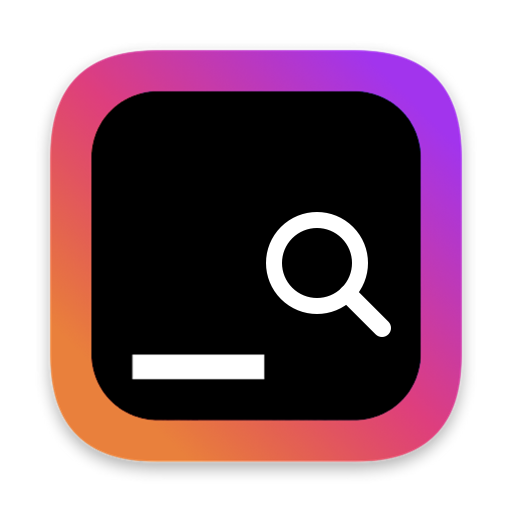
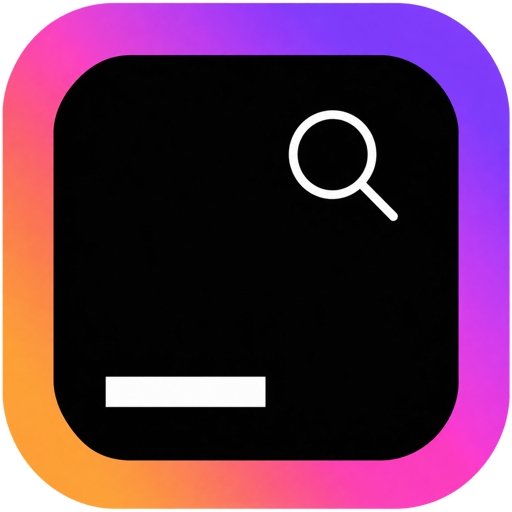
Update Finder branding and modal shortcuts

diff --git a/src/extension.js b/src/extension.js
@@ -1,12 +1,12 @@
 const vscode = require('vscode');
 const { spawn } = require('child_process');
 const readline = require('readline');
-const { rgPath } = require('@vscode/ripgrep');
 const { buildArgs, parseMatch, selectSearchRoots } = require('./search');
 const { createSyntax } = require('./syntax');
 const { getPreviewRange, createRowMap, rowPosition, segmentRange, matchRow, resultSnippet } = require('./preview');
 
-function activate(context) {
+async function activate(context) {
+  const { rgPath } = await import('@vscode/ripgrep');
   let panel, processes = [], generation = 0, matches = [], originalColumn, selectedDirectory;
   const syntax = createSyntax(vscode);
   let syntaxGeneration = 0;
@@ -107,6 +107,13 @@ function activate(context) {
       if (sequence === previewSequence && request === previewRequest && current === generation && active === syntaxGeneration && matches[id] === item && panel) panel.webview.postMessage({type:'previewLines', id, serial, first:range.start, lines});
     } catch (error) { if (panel && sequence === previewSequence && request === previewRequest) panel.webview.postMessage({type:'previewError',id,message:error.message}); }
   }
+  for (const [name, target] of [['quickOpen', 'workbench.action.quickOpen'], ['commands', 'workbench.action.showCommands']]) {
+    context.subscriptions.push(vscode.commands.registerCommand(`jetbrainsFinder.${name}`, async () => {
+      panel?.dispose();
+      await new Promise(resolve => setTimeout(resolve, 150));
+      await vscode.commands.executeCommand(target);
+    }));
+  }
   context.subscriptions.push(vscode.commands.registerCommand('jetbrainsFinder.open', (initialQuery) => {
     const selected = typeof initialQuery === 'string' ? initialQuery : (vscode.window.activeTextEditor?.document.getText(vscode.window.activeTextEditor.selection) || '');
     if (panel) { panel.reveal(); panel.webview.postMessage({type:'focus', query:selected.includes('\n') ? '' : selected}); return; }
@@ -118,6 +125,14 @@ function activate(context) {
     const icons = webview.asWebviewUri(vscode.Uri.joinPath(context.extensionUri,'node_modules','@vscode','codicons','dist','codicon.css'));
     const nonce = require('crypto').randomBytes(16).toString('base64');
     webview.html = `<!DOCTYPE html><html><head><meta charset="UTF-8"><meta name="viewport" content="width=device-width, initial-scale=1"><meta http-equiv="Content-Security-Policy" content="default-src 'none'; style-src ${webview.cspSource}; font-src ${webview.cspSource}; script-src 'nonce-${nonce}';"><link rel="stylesheet" href="${icons}"><link rel="stylesheet" href="${style}"></head><body><div id="app"></div><script nonce="${nonce}" src="${script}"></script></body></html>`;
+    panel.onDidChangeViewState(async event => {
+      const owner = event.webviewPanel;
+      if (owner.active || panel !== owner || vscode.workspace.getConfiguration('workbench.editor').get('useModal') !== 'all') return;
+      const group = vscode.window.tabGroups.all.find(group => group.tabs.some(tab => tab.input instanceof vscode.TabInputWebview && tab.input.viewType === 'jetbrainsFinder'));
+      if (!group || group.tabs.length !== 2 || !(group.activeTab?.input instanceof vscode.TabInputText)) return;
+      owner.dispose();
+      await vscode.commands.executeCommand('workbench.action.moveModalEditorToMain');
+    });
     panel.onDidDispose(() => {stop(); panel = undefined;});
     webview.onDidReceiveMessage(async message => {
       if (message.type === 'ready') webview.postMessage({type:'init', folders:(vscode.workspace.workspaceFolders || []).map(f=>({name:f.name, uri:f.uri.toString()})), query:selected.includes('\n')?'':selected, directory:selectedDirectory?.fsPath || ''});

diff --git a/README.md b/README.md
@@ -1,8 +1,8 @@
-# VS Code JetBrains Finder
+# JetBrains Finder for VS Code
 
 Search a workspace in a JetBrains-inspired view with live results and a preview of the selected match. On recent versions of VS Code, the view can open as a floating modal editor over your code.
 
-<img width="1604" height="1192" alt="" src="https://i.imgur.com/xfAVo0q.png" />
+![Find in Files showing search results and a code preview](https://i.imgur.com/JGqIM4A.png)
 
 ## Enable the modal
 
